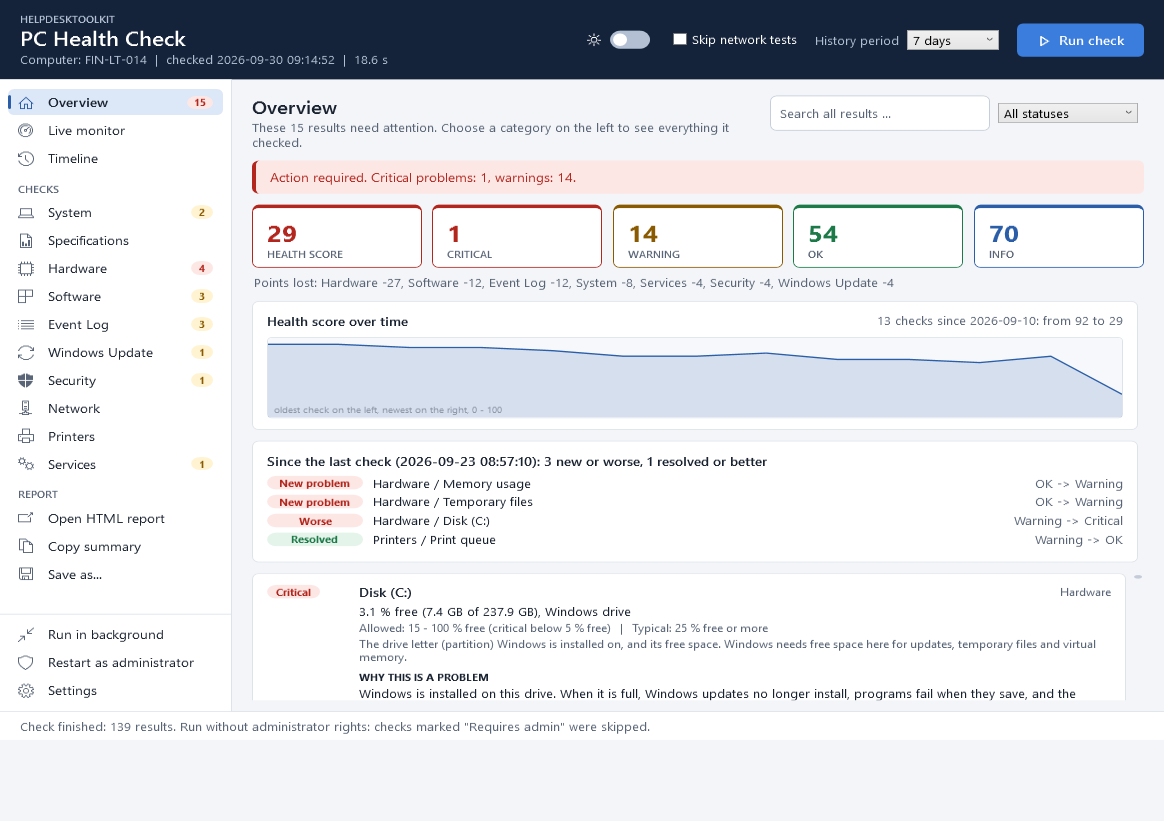
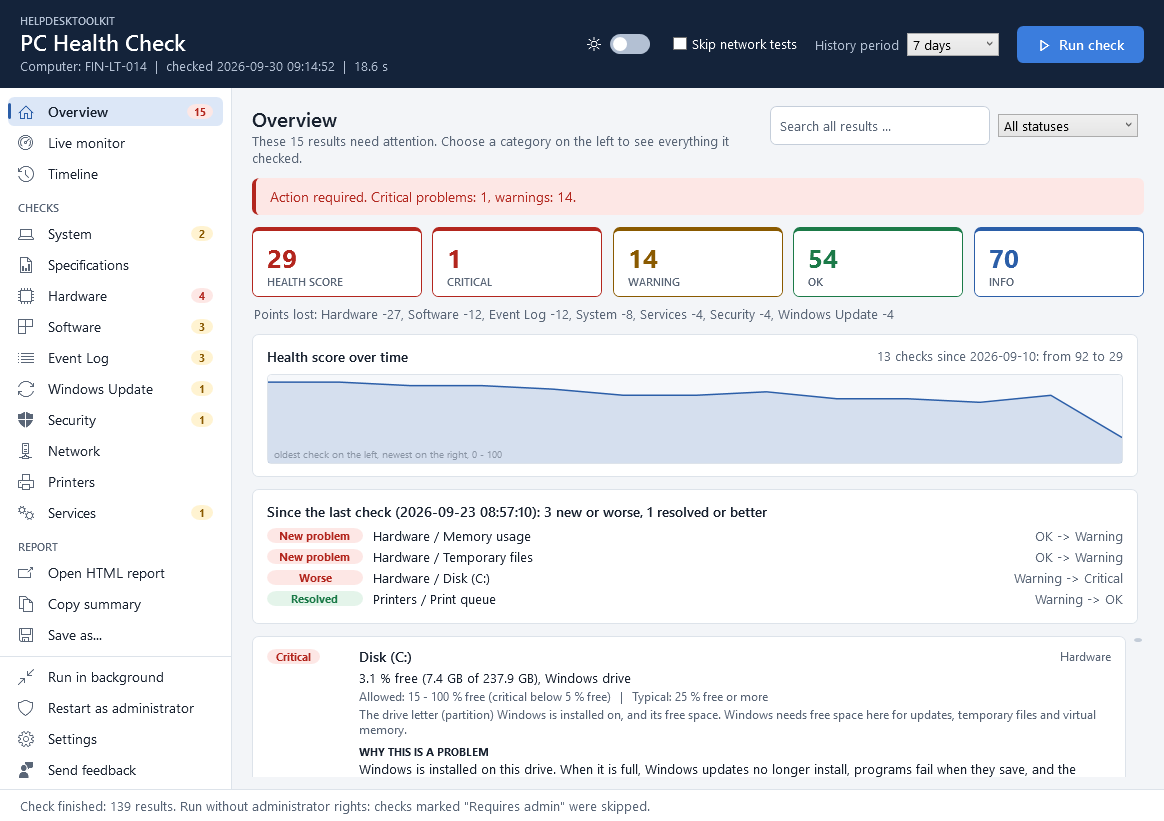
feat(feedback): send feedback through Formspree
Config\Feedback.psd1 names the form of the author, so the button is
shown. One real message was sent with it and arrived. PRIVACY.md and
NOTICE.md name the service, as the legal tests require once one is set.

The side bar is a few pixels tighter, so its list still fits without
scrolling at the default size of the window with the fourth button at
the bottom. Screenshots and demo generated again: they show the button,
and the Overview no longer squeezed.

diff --git a/HelpdeskToolkit/Assets/MainWindow.xaml b/HelpdeskToolkit/Assets/MainWindow.xaml
@@ -1110,8 +1110,8 @@
 
             <!-- Left: the pages and the report, then the rights and the settings at the bottom -->
             <Border Grid.Column="0" Background="{DynamicResource SurfaceBrush}" BorderBrush="{DynamicResource BorderBrush}" BorderThickness="0,0,1,0">
-                <DockPanel Margin="8,10,8,8">
-                    <Border DockPanel.Dock="Bottom" BorderBrush="{DynamicResource BorderBrush}" BorderThickness="0,1,0,0" Margin="-8,8,-8,0" Padding="8,6,8,0">
+                <DockPanel Margin="8,8,8,4">
+                    <Border DockPanel.Dock="Bottom" BorderBrush="{DynamicResource BorderBrush}" BorderThickness="0,1,0,0" Margin="-8,4,-8,0" Padding="8,4,8,0">
                         <StackPanel>
                             <!-- Whether the window runs with administrator rights: without them
                                  a button offers the restart, with them a line says so. -->

diff --git a/PRIVACY.md b/PRIVACY.md
@@ -57,7 +57,7 @@ avoided:
 | Ping to your router and to `1.1.1.1` (a public DNS server of Cloudflare), a DNS lookup of `microsoft.com`, one HTTPS request to `https://www.microsoft.com` | The connectivity tests of the Network category and the Internet tile of the Live monitor | Tick **Skip network tests**, or use `-SkipNetwork` |
 | `winget upgrade` | Asks the package manager of Windows which installed programs have a newer version. winget contacts its catalog, which Microsoft operates | The same switch |
 | Opening a page in your browser | Only when you click a link: a page of Microsoft Support or Microsoft Learn, or a web search on Google | Do not click the link |
-| Sending feedback | Only when you write a message under **Send feedback** and click **Send**: the message goes over https to the form service named in `HelpdeskToolkit\Config\Feedback.psd1`, which passes it on to the author by e-mail | Do not send feedback; without a form service in that file the button is not shown at all |
+| Sending feedback | Only when you write a message under **Send feedback** and click **Send**: the message goes over https to the form service named in `HelpdeskToolkit\Config\Feedback.psd1` (Formspree, `formspree.io`), which passes it on to the author by e-mail | Do not send feedback; without a form service in that file the button is not shown at all |
 | A remote computer | Only with `-ComputerName`: the report of that computer is read over Windows Remote Management | Do not use the parameter |
 
 What a link sends to a web site is the address itself, and only when you click it; the
@@ -84,8 +84,10 @@ A feedback message contains what the form shows before you send it, and nothing 
 It does not contain the name of the computer, your user name, or any result of a check.
 The message is delivered by a form service: a web service that receives it and passes
 it on to the mailbox of the author, so the application itself knows no e-mail address.
-That service sees the message and, like every web server, the internet address it came
-from, and its own privacy policy applies to what it keeps. Do not put anything into a
+In this version that service is Formspree (`formspree.io`), an independent company.
+It sees the message and, like every web server, the internet address it came from; it
+also keeps the message for the author to read, and its own
+[privacy policy](https://formspree.io/legal/privacy-policy) applies to what it keeps. Do not put anything into a
 message that you would not put into an e-mail to a stranger. A message that could not
 be sent stays in the form; only the reason is written to the log of the application,
 never the text.

diff --git a/CHANGELOG.md b/CHANGELOG.md
@@ -106,8 +106,8 @@ The first public version.
   searches use Google (they used Bing). The name of a program or an update can now be
   part of a search; a user, a computer, a folder or a drive still cannot.
 - **Send feedback**, at the bottom of the side bar: a form over the window whose message
-  reaches the author by e-mail through a form service (`Config\Feedback.psd1`; without
-  one the button is not shown). It sends the text, an address to answer to if one was
+  reaches the author by e-mail through a form service (Formspree, set in
+  `Config\Feedback.psd1`; without one the button is not shown). It sends the text, an address to answer to if one was
   given, and the versions of the application and of Windows, only after a click on
   Send, and says so in the form. A message that cannot be sent stays in the form.
 - Links open also when Windows cannot open them: when the default browser was removed
@@ -151,7 +151,9 @@ The first public version.
   window runs in.
 - Keyboard shortcuts for the common actions. Print Screen copies a picture of the
   window, which also works while the window runs with administrator rights and the
-  shortcut of a screenshot tool does not.
+  shortcut of a screenshot tool does not. The picture shows the window as it is: the
+  graph of the score, which reaches past its frame, used to squeeze the picture of
+  the Overview.
 
 ### Live monitor
 

diff --git a/README.md b/README.md
@@ -192,7 +192,7 @@ dismissed or when the problem is gone.
 **Send feedback**, at the bottom of the side bar, opens a small form: write what works,
 what does not or what is missing, add your e-mail address if you would like an answer,
 and click **Send** (Ctrl+Enter). The message reaches the author by e-mail through a form
-service. The form says what is sent before you send it: your text, the address if you
+service (Formspree). The form says what is sent before you send it: your text, the address if you
 gave one, and the versions of the application and of Windows; never the name of the
 computer, your user name or a result. A message that cannot be sent stays in the form.
 The button is there only when `Config\Feedback.psd1` names a form service.

diff --git a/README.hr.md b/README.hr.md
@@ -185,7 +185,7 @@ je lako naći. Obavijest nestaje kad je zatvoriš ili kad problema više nema.
 
 **Send feedback**, na dnu bočne trake, otvara mali obrazac: napiši što radi, što ne radi
 ili što nedostaje, dodaj svoju e-adresu ako želiš odgovor i klikni **Send** (Ctrl+Enter).
-Poruka stiže autoru e-poštom preko servisa za obrasce. Obrazac prije slanja kaže što se
+Poruka stiže autoru e-poštom preko servisa za obrasce (Formspree). Obrazac prije slanja kaže što se
 šalje: tvoj tekst, adresa ako si je upisao te verzije aplikacije i Windowsa; nikad ime
 računala, tvoje korisničko ime ni rezultati. Poruka koja se ne može poslati ostaje u
 obrascu. Gumb postoji samo kad `Config\Feedback.psd1` navodi servis za obrasce.

diff --git a/NOTICE.md b/NOTICE.md
@@ -45,8 +45,9 @@ their content, and their terms and privacy policies apply when you open them. A 
 a pointer, not a recommendation of everything behind it.
 
 Feedback you send from the window is delivered by the form service named in
-`HelpdeskToolkit\Config\Feedback.psd1`, an independent company whose terms and privacy
-policy apply to the message it handles. See [PRIVACY.md](PRIVACY.md).
+`HelpdeskToolkit\Config\Feedback.psd1`: Formspree (`formspree.io`), an independent company
+whose terms and privacy policy apply to the message it handles. HelpdeskToolkit is not
+affiliated with it. See [PRIVACY.md](PRIVACY.md).
 
 ## Third-party software
 
